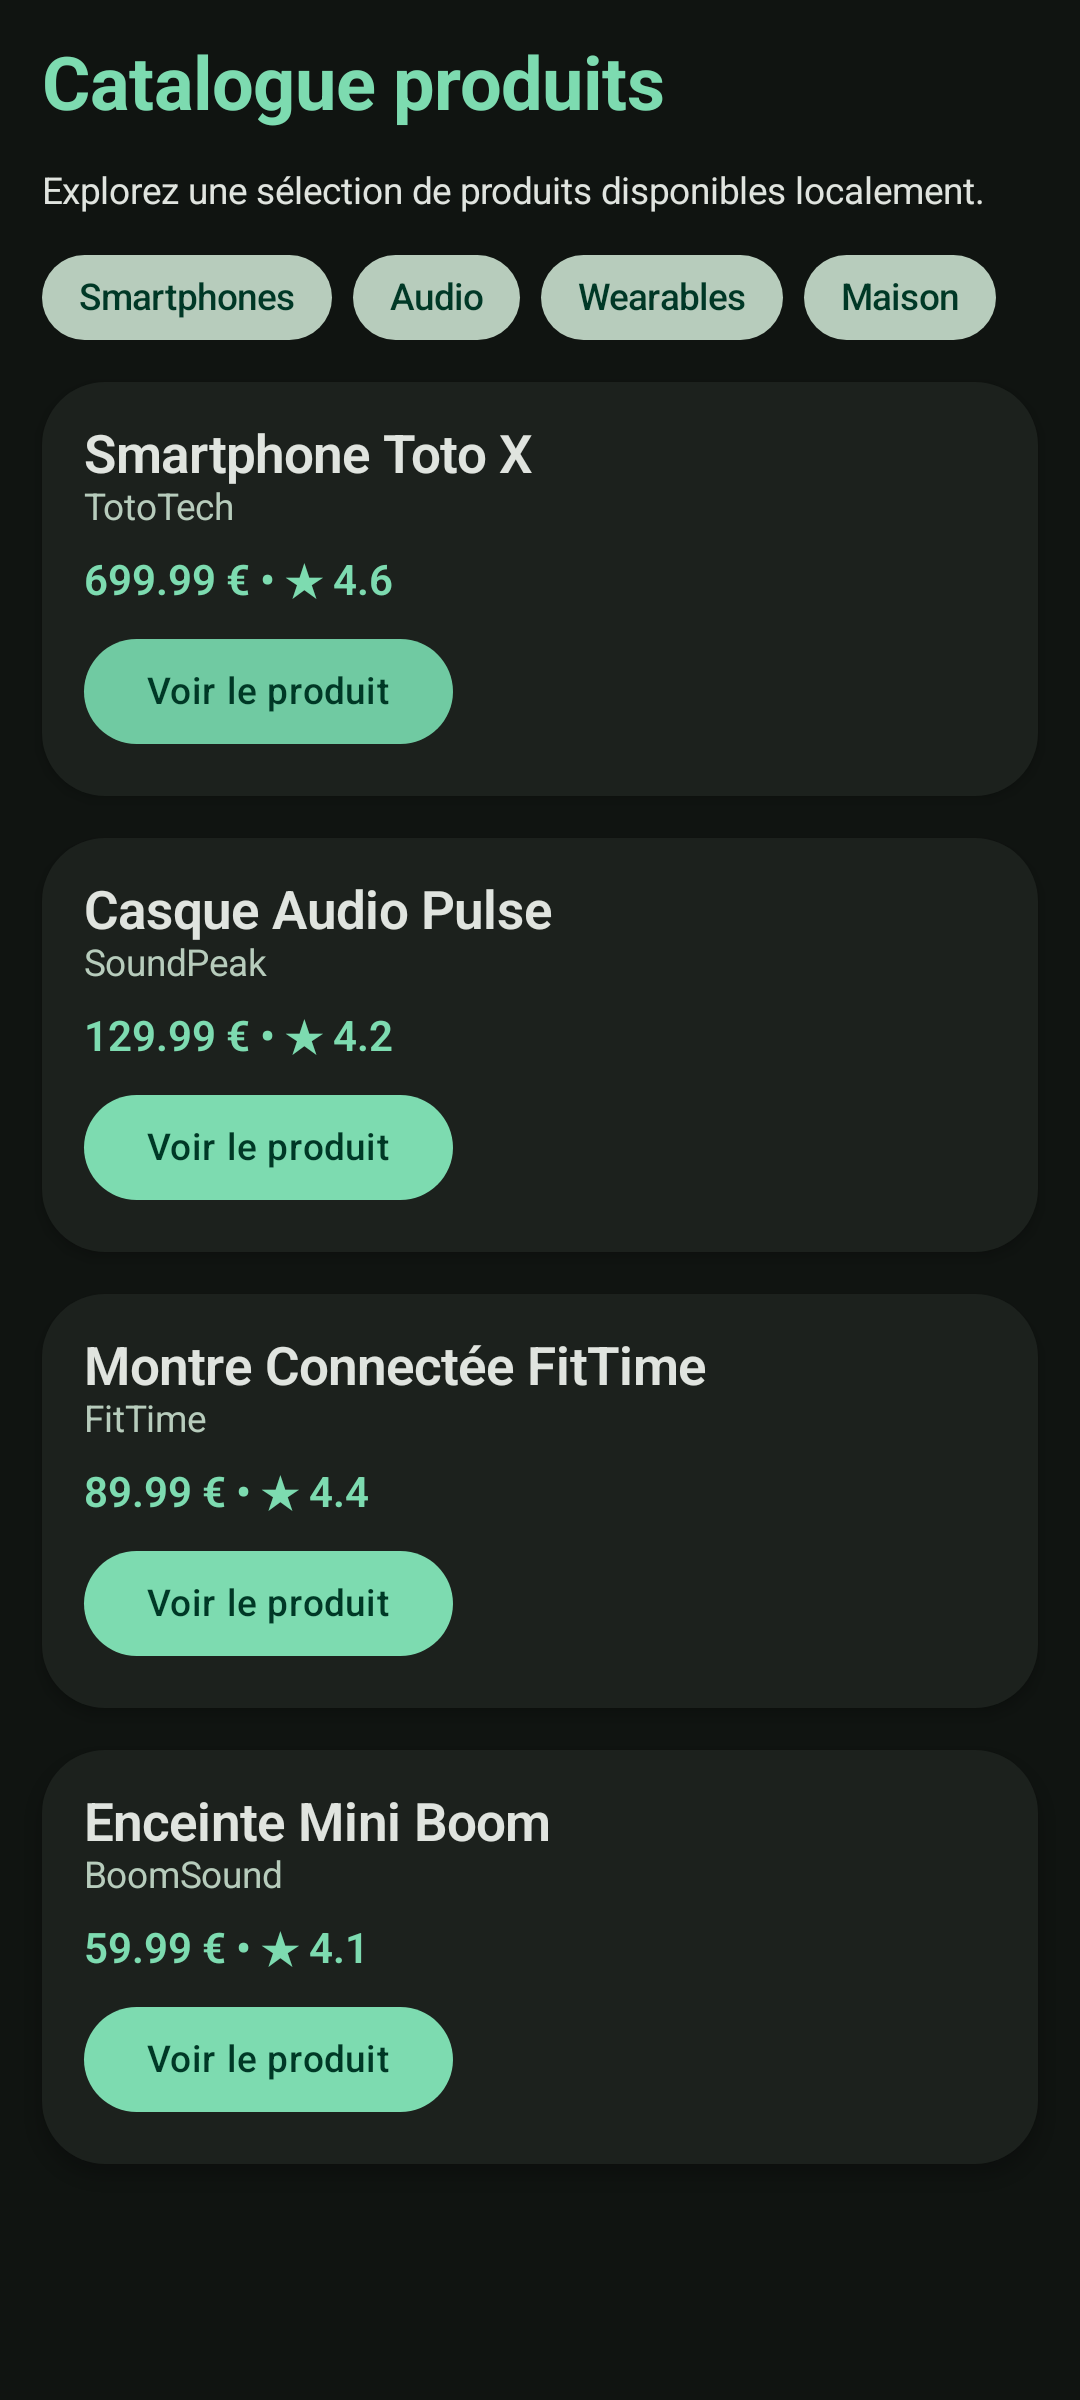
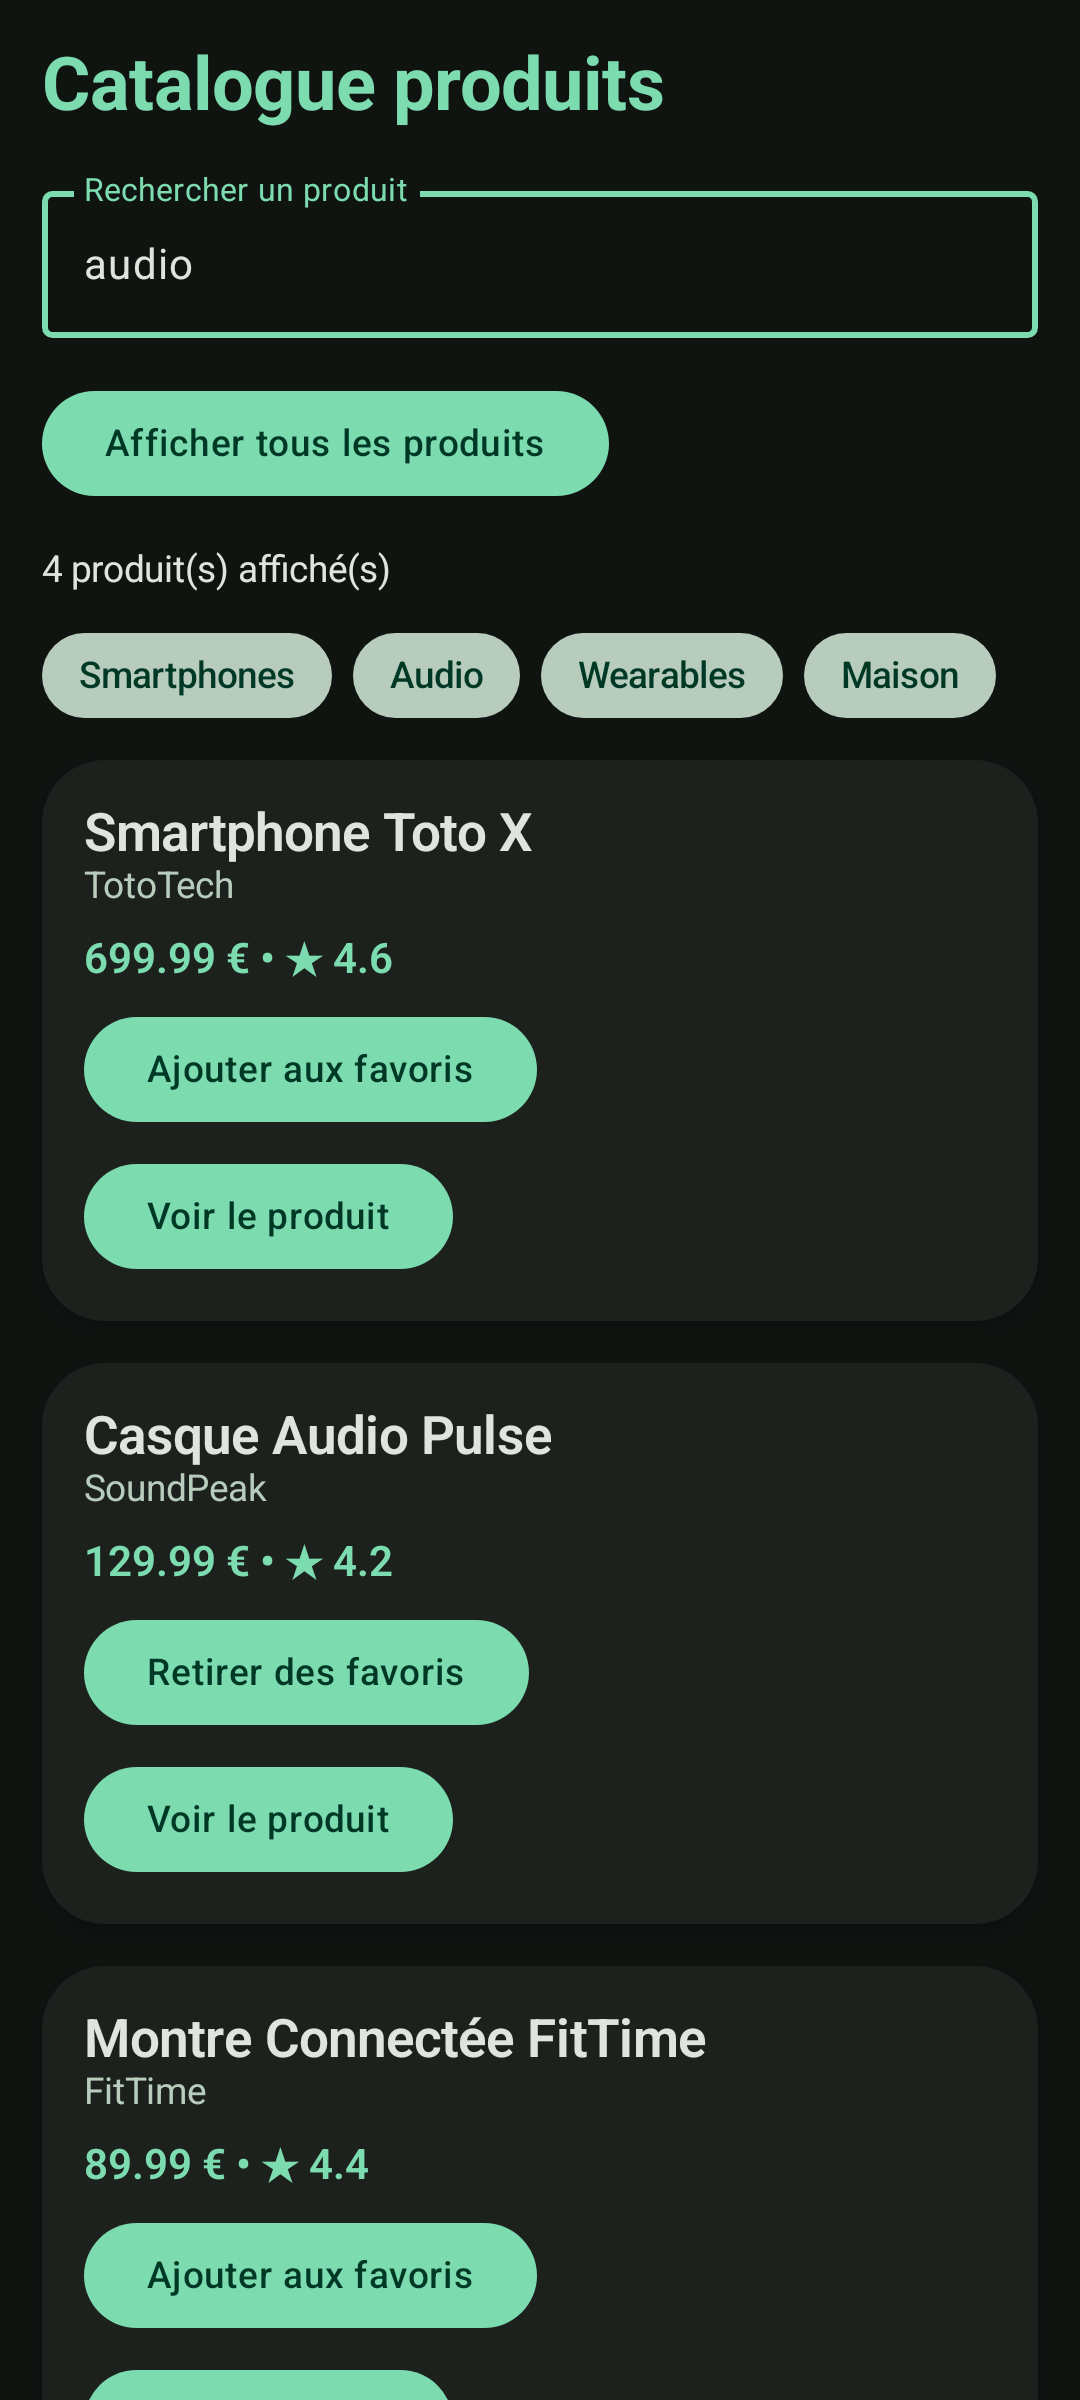
refactor(tp10): connexion de ProductCatalogContainer au ViewModel, previews stateless, nettoyage des imports et README

Changed region(s): [[0.0306, 0.0625, 0.9778, 0.3125], [0.0611, 0.5625, 0.6417, 1.0], [0.0611, 0.3438, 0.5194, 0.5312]]

diff --git a/app/src/main/kotlin/com/example/productexplorer/MainActivity.kt b/app/src/main/kotlin/com/example/productexplorer/MainActivity.kt
@@ -33,8 +33,6 @@ import androidx.compose.material3.Text
 import androidx.compose.runtime.Composable
 import androidx.compose.runtime.getValue
 import androidx.compose.runtime.mutableStateOf
-import androidx.compose.runtime.remember
-import androidx.compose.runtime.saveable.rememberSaveable
 import androidx.compose.runtime.setValue
 import androidx.compose.ui.Alignment
 import androidx.compose.ui.Modifier
@@ -53,8 +51,6 @@ class MainActivity : ComponentActivity() {
             ProductExplorerTheme {
                 Scaffold(modifier = Modifier.fillMaxSize()) { innerPadding ->
                     ProductCatalogContainer(
-                        products = sampleProducts(),
-                        categories = sampleCategories(),
                         onProductClick = {
                             // Plus tard : ouvrir le détail du produit
                         },
@@ -719,63 +715,22 @@ class ProductCatalogViewModel : ViewModel() {
     }
 }
 
-// Composable stateful qui possède l'état du catalogue (TP 9)
+// Passerelle entre le ViewModel et l'écran stateless (TP 10)
 @Composable
 fun ProductCatalogContainer(
-    products: List<ProductUi>,
-    categories: List<String>,
     onProductClick: (ProductUi) -> Unit,
-    modifier: Modifier = Modifier
+    modifier: Modifier = Modifier,
+    viewModel: ProductCatalogViewModel = viewModel()
 ) {
-    var searchQuery by rememberSaveable {
-        mutableStateOf("")
-    }
-
-    var showOnlyInStock by rememberSaveable {
-        mutableStateOf(false)
-    }
-
-    var favoriteProductIds by rememberSaveable {
-        mutableStateOf(listOf<Int>())
-    }
-
-    val filteredProducts = remember(products, searchQuery, showOnlyInStock) {
-        products.filter { product ->
-            val matchesSearch =
-                product.title.contains(searchQuery, ignoreCase = true) ||
-                    product.brand.contains(searchQuery, ignoreCase = true) ||
-                    product.category.contains(searchQuery, ignoreCase = true)
-
-            val matchesStock =
-                !showOnlyInStock || product.stock > 0
-
-            matchesSearch && matchesStock
-        }
-    }
-
-    fun toggleFavorite(productId: Int) {
-        favoriteProductIds = if (favoriteProductIds.contains(productId)) {
-            favoriteProductIds - productId
-        } else {
-            favoriteProductIds + productId
-        }
-    }
-
     ProductCatalogScreen(
-        products = filteredProducts,
-        categories = categories,
-        searchQuery = searchQuery,
-        onSearchQueryChange = { newValue ->
-            searchQuery = newValue
-        },
-        showOnlyInStock = showOnlyInStock,
-        onToggleStockFilter = {
-            showOnlyInStock = !showOnlyInStock
-        },
-        favoriteProductIds = favoriteProductIds,
-        onFavoriteClick = { productId ->
-            toggleFavorite(productId)
-        },
+        products = viewModel.filteredProducts,
+        categories = viewModel.categories,
+        searchQuery = viewModel.searchQuery,
+        onSearchQueryChange = viewModel::onSearchQueryChange,
+        showOnlyInStock = viewModel.showOnlyInStock,
+        onToggleStockFilter = viewModel::onToggleStockFilter,
+        favoriteProductIds = viewModel.favoriteProductIds,
+        onFavoriteClick = viewModel::onFavoriteClick,
         onProductClick = onProductClick,
         modifier = modifier
     )
@@ -865,17 +820,23 @@ fun ProductCatalogScreen(
     }
 }
 
-// Previews du catalogue produits en thème clair et sombre (TP 9)
+// Previews du catalogue produits stateless en thème clair et sombre (TP 10)
 @Preview(
     showBackground = true,
     name = "Catalogue - Light Theme"
 )
 @Composable
-fun ProductCatalogContainerLightPreview() {
+fun ProductCatalogScreenLightPreview() {
     ProductExplorerTheme(darkTheme = false) {
-        ProductCatalogContainer(
+        ProductCatalogScreen(
             products = sampleProducts(),
             categories = sampleCategories(),
+            searchQuery = "",
+            onSearchQueryChange = {},
+            showOnlyInStock = false,
+            onToggleStockFilter = {},
+            favoriteProductIds = listOf(1),
+            onFavoriteClick = {},
             onProductClick = {}
         )
     }
@@ -886,28 +847,16 @@ fun ProductCatalogContainerLightPreview() {
     name = "Catalogue - Dark Theme"
 )
 @Composable
-fun ProductCatalogContainerDarkPreview() {
+fun ProductCatalogScreenDarkPreview() {
     ProductExplorerTheme(darkTheme = true) {
-        ProductCatalogContainer(
-            products = sampleProducts(),
-            categories = sampleCategories(),
-            onProductClick = {}
-        )
-    }
-}
-
-@Preview(showBackground = true)
-@Composable
-fun ProductCatalogScreenStatelessPreview() {
-    ProductExplorerTheme {
         ProductCatalogScreen(
             products = sampleProducts(),
             categories = sampleCategories(),
-            searchQuery = "",
+            searchQuery = "audio",
             onSearchQueryChange = {},
-            showOnlyInStock = false,
+            showOnlyInStock = true,
             onToggleStockFilter = {},
-            favoriteProductIds = listOf(1),
+            favoriteProductIds = listOf(2),
             onFavoriteClick = {},
             onProductClick = {}
         )

diff --git a/README.md b/README.md
@@ -1,37 +1,32 @@
-# Product Explorer - TP 4 à TP 7
+# Product Explorer - TP 4 à TP 10
 
-Application Android développée avec Jetpack Compose dans le cadre du **Bloc 2 - Compose UI**.
+Application Android développée avec Jetpack Compose dans le cadre des TP du cours Android Compose.
 
 ---
 
-## TP 4 : Écran de détail produit (`ProductDetailScreen`)
-Composants fondamentaux : `Text`, `Button`, `Icon`, `Image`, `Card`, `OutlinedTextField`.
+## Bloc 2 – Compose UI (TP 4 à TP 7)
+- **TP 4 (`ProductDetailScreen`)** : composants fondamentaux (`Text`, `Button`, `Icon`, `Image`, `Card`, `OutlinedTextField`).
+- **TP 5 (`ProductHomeScreen`)** : layouts Compose (`Column`, `Row`, `Box`, `Spacer`, `Surface`).
+- **TP 6 (`ProductCatalogScreen`)** : listes modernes (`LazyColumn`, `LazyRow`, `items` avec `key`, `ProductListItem`).
+- **TP 7 (Material Design 3)** : palettes clair/sombre (`LightColorScheme`, `DarkColorScheme`), `ProductTypography` et `ProductShapes`.
 
-## TP 5 : Écran d'accueil Product Explorer (`ProductHomeScreen`)
-Layouts Compose : `Column`, `Row`, `Box`, `Spacer`, `Surface`.
+---
 
-## TP 6 : Affichage d'un catalogue local de produits (`ProductCatalogScreen`)
-Listes modernes : `LazyColumn` (`item` + `items` avec `key`), `LazyRow` (`CategoryRow`), carte produit réutilisable (`ProductListItem`).
-
-## TP 7 : Personnalisation graphique avec Material Design 3
-Mise en place d'un thème personnalisé et cohérent pour toute l'application :
-- **Palettes de couleurs (`Theme.kt`)** : définition de `LightColorScheme` et `DarkColorScheme` (rôles `primary`, `onPrimary`, `secondary`, `background`, `onBackground`, `surface`, `onSurface`) et sélection automatique via `isSystemInDarkTheme()`.
-- **Formes personnalisées (`Theme.kt`)** : `ProductShapes` (`small`, `medium`, `large`, `extraLarge`).
-- **Typographie (`Type.kt`)** : `ProductTypography` (`headlineMedium`, `titleLarge`, `titleMedium`, `bodyMedium`, `labelLarge`).
-- **Application dans l'interface** : fond du catalogue, titre en couleur `primary`, description en `onBackground`, cartes produits avec `shapes.large`, élévation et couleurs du thème, chips catégories en `extraLarge` avec `secondary`/`onPrimary`.
-- **Previews clair & sombre** : `ProductCatalogScreenLightPreview` et `ProductCatalogScreenDarkPreview` pour vérifier les contrastes.
+## Bloc 3 – State Management & Architecture UI (TP 8 à TP 10)
+- **TP 8 (États Compose)** : ajout de la recherche interactive (`OutlinedTextField`), du filtre « produits en stock », du compteur de résultats et des favoris sur `ProductListItem` (`remember`, `mutableStateOf`, `rememberSaveable`).
+- **TP 9 (State Hoisting)** : séparation entre le composable stateful `ProductCatalogContainer` (qui détient les états et la logique de filtrage) et le composable stateless `ProductCatalogScreen` (qui reçoit les valeurs et remonte les événements via callbacks).
+- **TP 10 (ViewModel)** :
+  - Ajout de `androidx.lifecycle:lifecycle-viewmodel-compose` via le Version Catalog.
+  - Création de `ProductCatalogViewModel` contenant `allProducts`, `categories`, `searchQuery`, `showOnlyInStock`, `favoriteProductIds`, `filteredProducts` et les fonctions d'action (`onSearchQueryChange`, `onToggleStockFilter`, `onFavoriteClick`).
+  - `ProductCatalogContainer` relie le `ViewModel` (`viewModel()`) à `ProductCatalogScreen`.
+  - Previews stateless dédiées (`ProductCatalogScreenLightPreview` et `ProductCatalogScreenDarkPreview`).
 
 ---
 
 ## Previews disponibles
 
-### Catalogue produits - Thème clair (TP 7)
+### Catalogue interactif - Thème clair (TP 10)
 ![Aperçu Catalogue Light](screenshots/preview_catalog_light.png)
 
-### Catalogue produits - Thème sombre (TP 7)
+### Catalogue interactif - Thème sombre (TP 10)
 ![Aperçu Catalogue Dark](screenshots/preview_catalog_dark.png)
-
-### Autres écrans (TP 4, 5 & 6)
-- Catalogue initial : `screenshots/preview_catalog.png`
-- Écran d'accueil : `screenshots/preview_home.png`
-- Détail produit : `screenshots/preview_product.png` / `screenshots/preview_outofstock.png`
